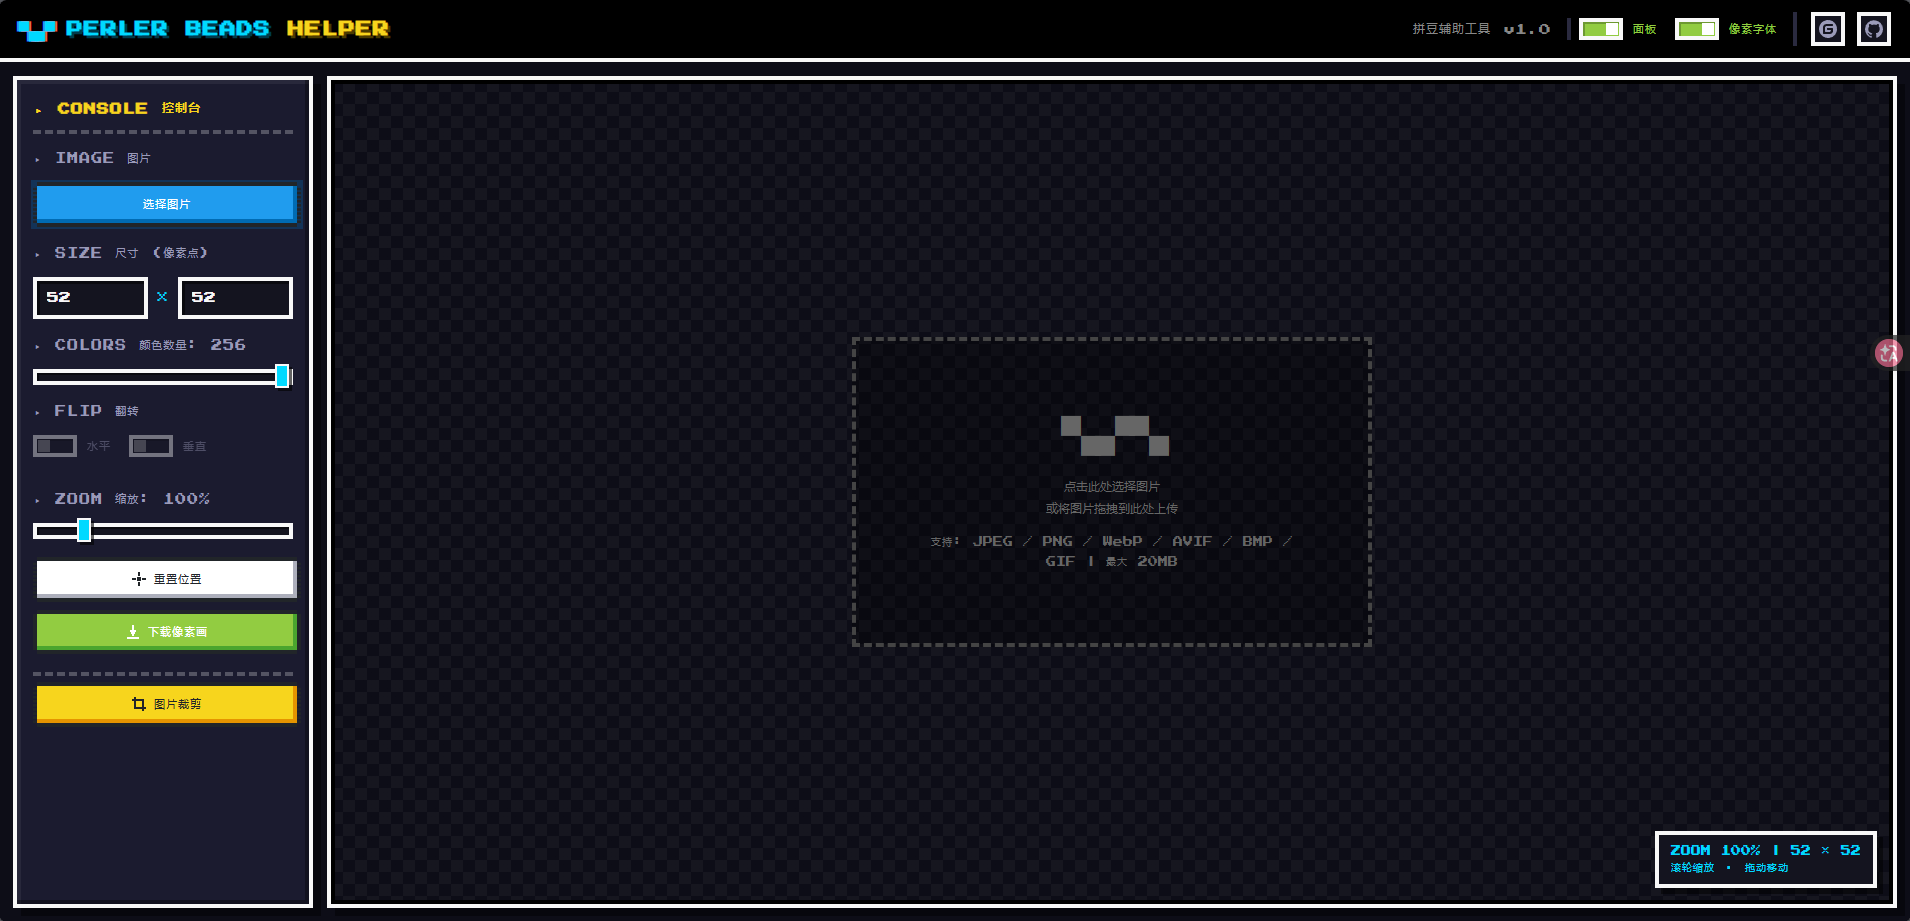
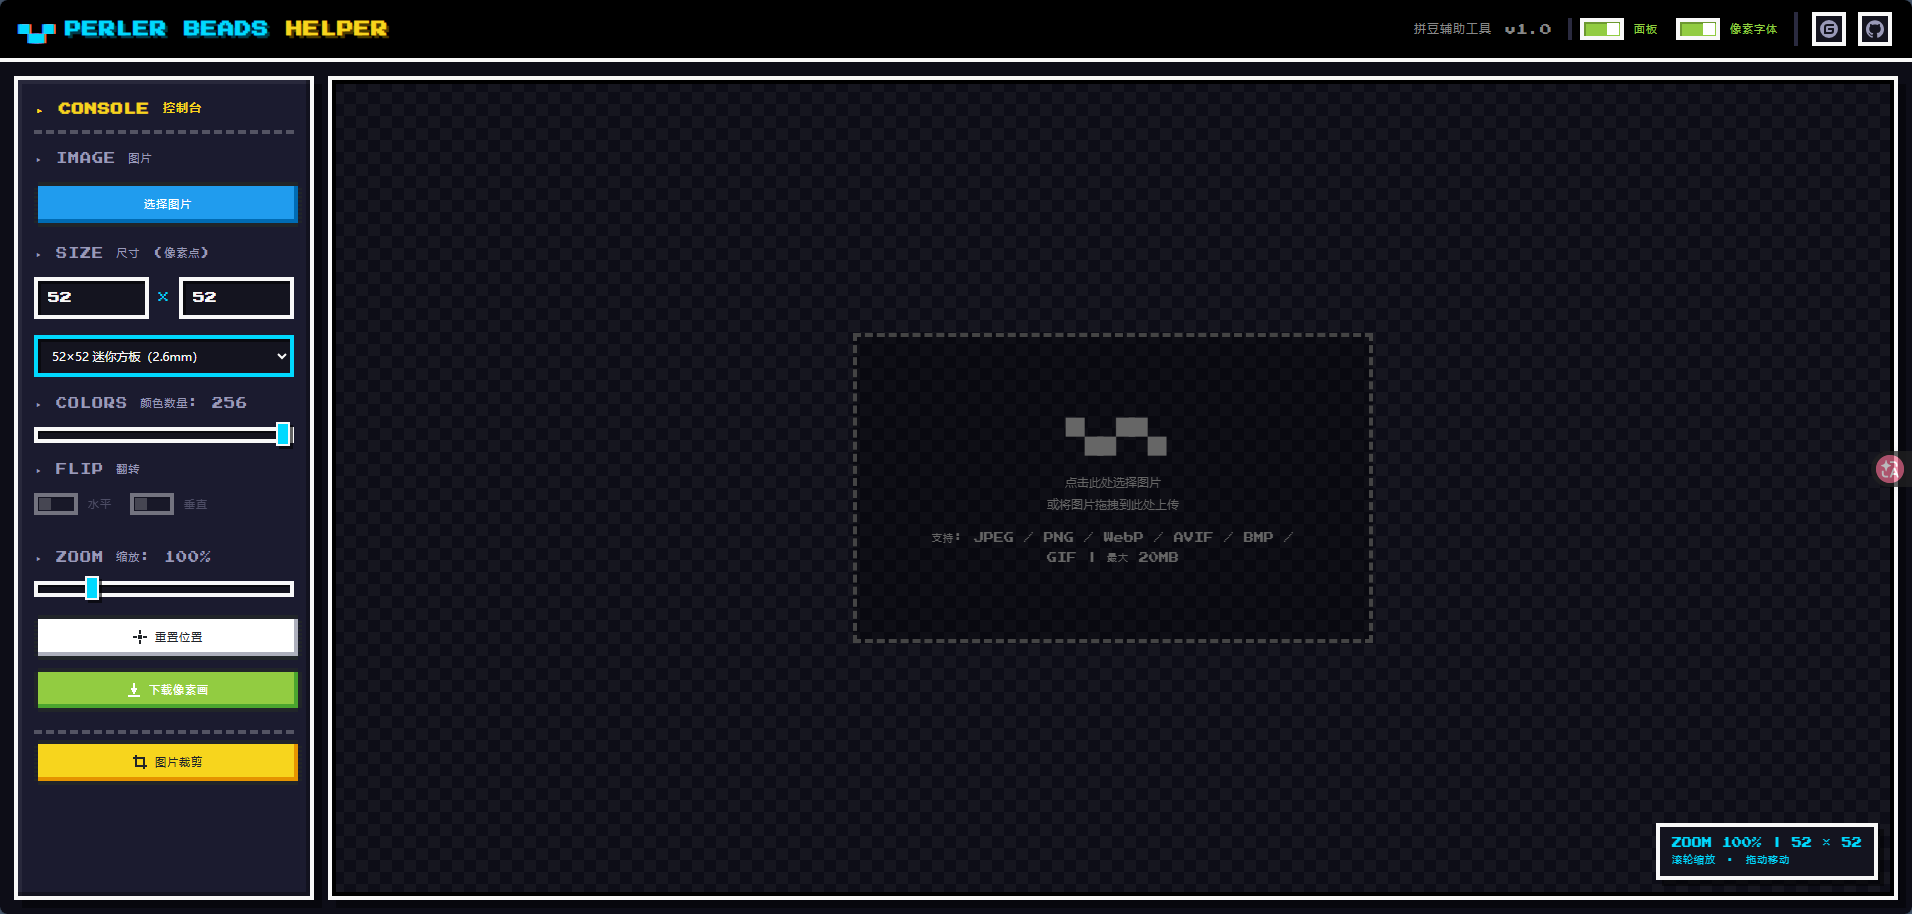
缩放支持到0.01。增加常用豆板宽高选择。样式修改。

diff --git a/js/state.js b/js/state.js
@@ -10,9 +10,9 @@ window.PBH = window.PBH || { state: {}, fn: {} };
         const originalImage = ref(null);
         const pixelWidth = ref(52);
         const pixelHeight = ref(52);
-        const cellSize = ref(20);
-        const rulerWidth = ref(40);
-        const rulerHeight = ref(24);
+        const cellSize = ref(36);
+        const rulerWidth = ref(48);
+        const rulerHeight = ref(26);
         const scale = ref(1);
         const pixelData = ref(null);
         const hoveredPixel = ref(null);
@@ -68,6 +68,17 @@ window.PBH = window.PBH || { state: {}, fn: {} };
         ];
         const handles = ['nw', 'n', 'ne', 'e', 'se', 's', 'sw', 'w'];
 
+        // 常用豆板尺寸：选中后直接写入宽高输入框
+        const boardPreset = ref('');
+        const boardPresets = [
+          { label: '15×15 小方板', w: 15, h: 15 },
+          { label: '29×29 标准方板（5mm）', w: 29, h: 29 },
+          { label: '52×52 迷你方板（2.6mm）', w: 52, h: 52 },
+          { label: '58×58 四板拼接', w: 58, h: 58 },
+          { label: '78×78 迷你大方板（2.6mm）', w: 78, h: 78 },
+          { label: '104×104 迷你特大板（2.6mm）', w: 104, h: 104 }
+        ];
+
         const cropBoxStyle = computed(() => ({
           left: cropRect.value.x + 'px',
           top: cropRect.value.y + 'px',
@@ -93,7 +104,7 @@ window.PBH = window.PBH || { state: {}, fn: {} };
 
   // 状态装配：其他模块与 setup() 通过 PBH.state 共享同一批 ref / computed
   PBH.state = {
-    fileInput, cropFileInput, mainCanvas, previewContainer, originalImage, pixelWidth, pixelHeight, cellSize, rulerWidth, rulerHeight, scale, pixelData, hoveredPixel, selectedPixel, isDragging, isDraggingOver, offsetX, offsetY, lastMouseX, lastMouseY, panelOpen, pixelFont, flipH, flipV, cropModalOpen, cropImage, cropImageSrc, cropImageEl, cropStage, cropAspectRatio, activeRatio, cropType, customRatioW, customRatioH, customPxW, customPxH, cropRect, cropDragMode, cropDragStart, cropFlipH, cropFlipV, cropDragOver, cropTransform, presetRatios, handles, cropBoxStyle, canvasWidth, canvasHeight, imageInfo, imageRatio, hoveredPixelColor, selectedPixelColor, colorCount
+    fileInput, cropFileInput, mainCanvas, previewContainer, originalImage, pixelWidth, pixelHeight, cellSize, rulerWidth, rulerHeight, scale, pixelData, hoveredPixel, selectedPixel, isDragging, isDraggingOver, offsetX, offsetY, lastMouseX, lastMouseY, panelOpen, pixelFont, flipH, flipV, cropModalOpen, cropImage, cropImageSrc, cropImageEl, cropStage, cropAspectRatio, activeRatio, cropType, customRatioW, customRatioH, customPxW, customPxH, cropRect, cropDragMode, cropDragStart, cropFlipH, cropFlipV, cropDragOver, cropTransform, presetRatios, handles, boardPreset, boardPresets, cropBoxStyle, canvasWidth, canvasHeight, imageInfo, imageRatio, hoveredPixelColor, selectedPixelColor, colorCount
   };
 
         /** 监听尺寸变化，重新渲染画布 */

diff --git a/css/style.css b/css/style.css
@@ -258,6 +258,15 @@
       color: var(--px-cyan);
       font-size: 14px;
     }
+    .board-select {
+      margin-top: 8px;
+      cursor: pointer;
+      font-family: var(--px-font-plain);
+    }
+    .board-select option {
+      background: var(--px-panel-dark);
+      color: var(--px-ink);
+    }
 
     /* ============ NES 按钮微调 ============ */
     .nes-btn {
@@ -355,6 +364,9 @@
     .canvas-wrapper {
       position: relative;
       background: transparent;
+      /* 边框放在外层容器上：保证悬浮高亮层与画布内容同一起点，避免 4px 偏移 */
+      border: 4px solid var(--px-border);
+      box-shadow: 8px 8px 0 0 rgba(0, 0, 0, 0.5);
     }
     .canvas-wrapper.dragging {
       cursor: grabbing;
@@ -366,8 +378,6 @@
       image-rendering: pixelated;
       cursor: crosshair;
       display: block;
-      border: 4px solid var(--px-border);
-      box-shadow: 8px 8px 0 0 rgba(0, 0, 0, 0.5);
     }
     .highlight-overlay {
       position: absolute;
@@ -395,6 +405,7 @@
       background: var(--px-panel-dark);
       border: 4px solid var(--px-cyan);
       box-shadow: 6px 6px 0 0 rgba(0, 0, 0, 0.5);
+      width: 200px;
       padding: 10px 12px;
       color: var(--px-cyan);
       font-size: 11px;

diff --git a/index.html b/index.html
@@ -56,6 +56,10 @@
             <span class="px-x">×</span>
             <input type="number" class="px-input" :value="pixelHeight" min="5" max="200" step="1" @input="handleSizeInput($event, 'height')">
           </div>
+          <select class="px-input board-select" v-model="boardPreset" @change="applyBoardPreset">
+            <option value="">选择常用豆板尺寸</option>
+            <option v-for="p in boardPresets" :key="p.label" :value="p.label">{{ p.label }}</option>
+          </select>
         </div>
 
         <div class="control-group">
@@ -81,7 +85,7 @@
 
         <div class="control-group">
           <label class="px-label">▸ ZOOM <span class="cjk">缩放</span>: {{ Math.round(scale * 100) }}%</label>
-          <input type="range" class="px-range" v-model.number="scale" min="0.2" max="5" step="0.1">
+          <input type="range" class="px-range" v-model.number="scale" min="0.01" max="5" step="0.01">
         </div>
 
         <div class="control-group">

diff --git a/js/app.js b/js/app.js
@@ -1,8 +1,19 @@
 (function (PBH) {
   'use strict';
   const { createApp } = Vue;
-  const { pixelWidth, pixelHeight } = PBH.state;
+  const { pixelWidth, pixelHeight, boardPreset, boardPresets } = PBH.state;
   const { generatePixelArt } = PBH.fn;
+
+        /**
+         * 应用常用豆板尺寸：按所选预设写入宽高并重新生成像素画
+         */
+        const applyBoardPreset = () => {
+          const preset = boardPresets.find((p) => p.label === boardPreset.value);
+          if (!preset) return;
+          pixelWidth.value = preset.w;
+          pixelHeight.value = preset.h;
+          generatePixelArt();
+        };
 
         /**
          * 尺寸输入：只接受整数，输入小数时向下取整后回填
@@ -23,7 +34,7 @@
           generatePixelArt();
         };
 
-  Object.assign(PBH.fn, { handleSizeInput });
+  Object.assign(PBH.fn, { handleSizeInput, applyBoardPreset });
 
   createApp({
     setup() {

diff --git a/js/view.js b/js/view.js
@@ -8,8 +8,8 @@
 
         const handleWheel = (event) => {
           const delta = event.deltaY > 0 ? -0.1 : 0.1;
-          const newScale = Math.max(0.2, Math.min(5, scale.value + delta));
-          scale.value = parseFloat(newScale.toFixed(1));
+          const newScale = Math.max(0.01, Math.min(5, scale.value + delta));
+          scale.value = parseFloat(newScale.toFixed(2));
         };
 
         const downloadPixelArt = () => {
